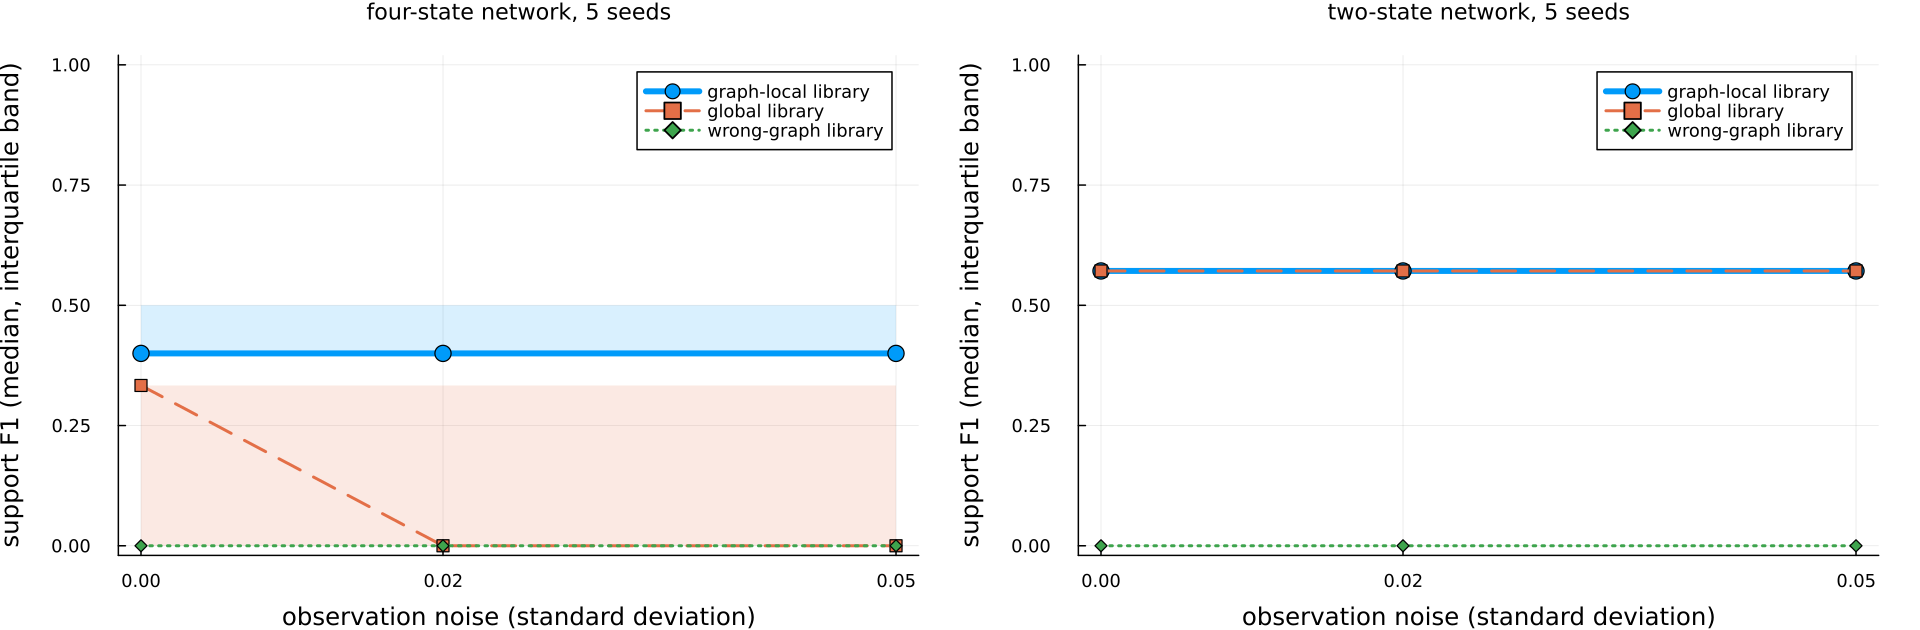
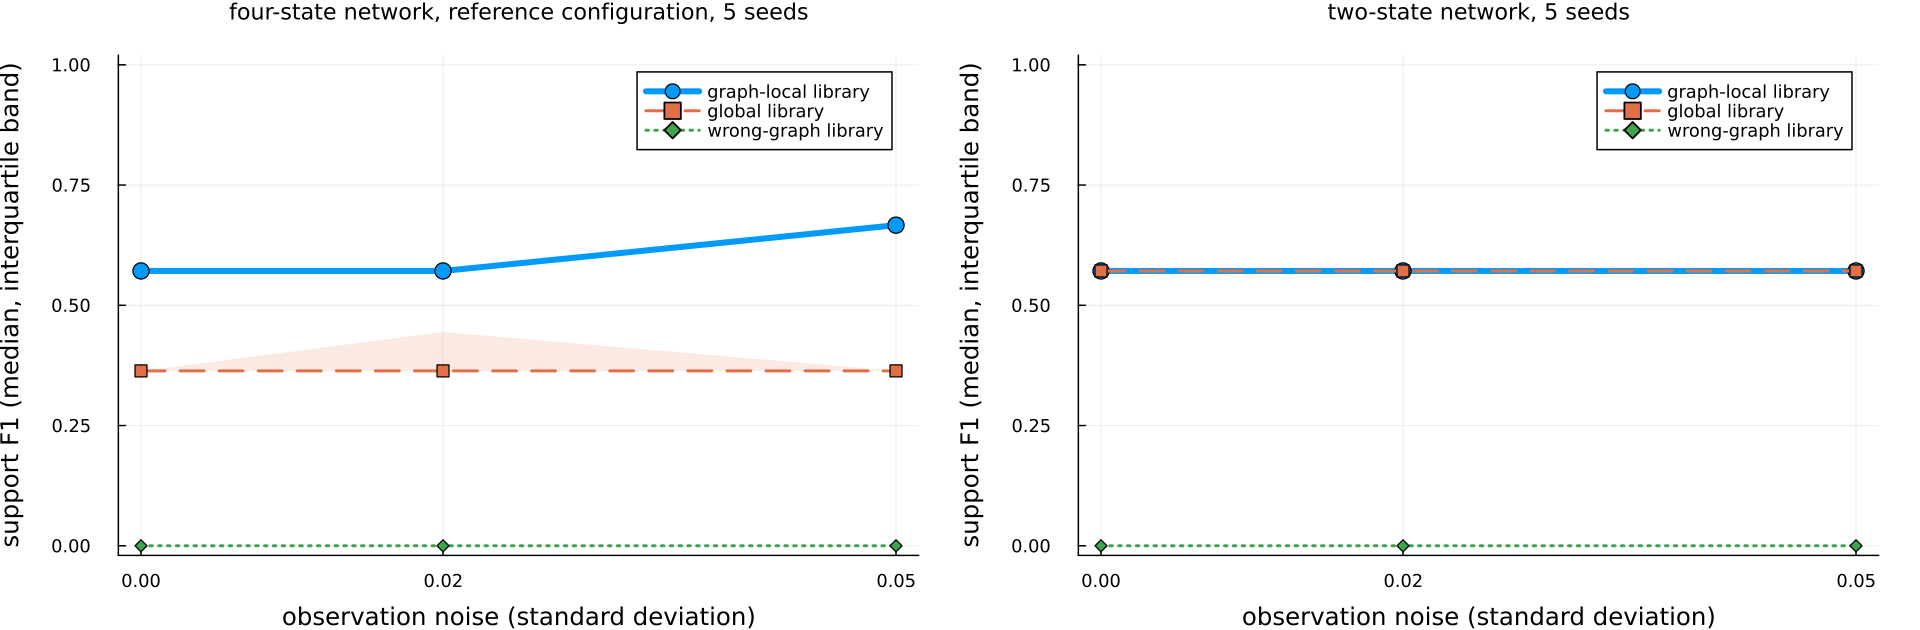
refactor: rename report to report_unknown_term; benchmarks headline is the reference configuration
The exported `report` becomes `report_unknown_term` everywhere (source,
both export locks, tests, docs, README, tutorial, changelog); `show` is
unchanged. No deprecation alias: 0.11.0 is not released yet.

Benchmarks page, presentation only: the reference configuration
(`reference` variant, the reference protocol's discovery settings) is now
the headline four-state table and the four-state panel of the figure,
regenerated from the existing CSVs; the original library-check
configuration (`study` variant) moves into "Why the four-state recall is
0.5" with its table kept; the interpretation paragraph states the claim
the numbers support. No default changed.

Claude-Session: https://claude.ai/code/session_01FzTPQ5c3VVUiqX5fWt3oAg

diff --git a/docs/src/benchmarks.md b/docs/src/benchmarks.md
@@ -152,72 +152,81 @@ distractor Z; the unknown term is the Hill degradation of S with regulator
 R, `D(R) = 1.7 R^2 / (0.36 + R^2)`. For each seed and noise level one model
 is trained on three initial conditions with 40 points each (Adam 100, then
 BFGS 50), its learned rate is sampled once on 80 designed coordinates, and
-discovery runs three times on those samples: with the graph-local library
-(monomials of S and R up to degree 2), with the global library (monomials
-of all four states), and with the library of a deliberately wrong graph (Q
-as the parent of S instead of R). The first candidate of each discovery is
-scored against the true implicit support, `R^2` in the numerator and `R^2`
-in the denominator. Two held-out initial conditions, never used for
+discovery runs three times on those samples with the reference protocol's
+configuration (`discover_unknown_rate` with `rate_discovery_config()`:
+bootstrap 8, consensus refit, samples permuted before the validation
+split): with the graph-local library, monomials up to degree 2 of the
+parent of S in the graph (R); with the global library, monomials of every
+other state (R, Q, Z); and with the library of a deliberately wrong graph
+(Q as the parent of S instead of R). The first candidate of each discovery
+is scored against the true implicit support, `R^2` in the numerator and
+`R^2` in the denominator. Two held-out initial conditions, never used for
 training, give the held-out residual of the hybrid model that uses the
 discovered rate.
 
 The default study is seeds 103, 107, 111, 113, and 127, observation noise
 0, 0.02, and 0.05 (standard deviation of additive Gaussian noise on the
-observations), and the three libraries: 15 trainings and 45 rows.
-`benchmark/library_comparison_study.jl` ran it in 28 minutes on 4 cores
-(median training 107 s) and `benchmark/plot_library_comparison.jl` drew the
-figure.
+observations), and the three libraries: 15 trainings and 45 rows per
+discovery configuration. `benchmark/library_comparison_study.jl --variants
+all` trained the 15 models in 33 minutes on 4 cores (median training 119 s,
+with three other studies running on the same machine) and scored four
+discovery configurations on each; the table below is the reference
+configuration (the `reference` variant), and
+`benchmark/plot_library_comparison.jl` drew the figure from the same rows.
 
 ![Support F1 against observation noise, one line per library, median over five seeds with the interquartile band; left the four-state network, right the two-state network](assets/library_comparison.png)
 
-The left panel is the four-state network of this section; the right panel
-is the two-state reference network described below, where the graph-local
-and global libraries coincide and their lines overlap.
+The left panel is the four-state network of this section with the
+reference configuration; the right panel is the two-state reference network
+described below, where the graph-local and global libraries coincide and
+their lines overlap.
 
-Four-state network, median over the five seeds, with the first and third
-quartile in brackets:
+Four-state network, reference configuration, median over the five seeds,
+with the first and third quartile in brackets:
 
 | library | noise | support F1 | support recall | extra terms | held-out residual | neural-rate error |
 |---|---|---|---|---|---|---|
-| graph-local | 0 | 0.40 [0.40, 0.50] | 0.5 [0.5, 0.5] | 2 [1, 2] | 0.041 [0.024, 0.044] | 0.073 |
-| graph-local | 0.02 | 0.40 [0.40, 0.50] | 0.5 [0.5, 0.5] | 2 [1, 2] | 0.032 [0.030, 0.056] | 0.075 |
-| graph-local | 0.05 | 0.40 [0.40, 0.50] | 0.5 [0.5, 0.5] | 2 [1, 2] | 0.057 [0.054, 0.057] | 0.048 |
-| global | 0 | 0.33 [0.00, 0.33] | 0.5 [0.0, 0.5] | 3 [3, 5] | 0.127 [0.125, 0.127] | 0.073 |
-| global | 0.02 | 0.00 [0.00, 0.33] | 0.0 [0.0, 0.5] | 5 [3, 5] | 0.154 [0.139, 0.154] | 0.075 |
-| global | 0.05 | 0.00 [0.00, 0.33] | 0.0 [0.0, 0.5] | 5 [3, 5] | 0.161 [0.114, 0.208] | 0.048 |
-| wrong graph | 0 | 0.00 [0.00, 0.00] | 0.0 [0.0, 0.0] | 2 [2, 2] | 0.252 [0.251, 0.257] | 0.073 |
-| wrong graph | 0.02 | 0.00 [0.00, 0.00] | 0.0 [0.0, 0.0] | 2 [2, 2] | 0.265 [0.249, 0.335] | 0.075 |
-| wrong graph | 0.05 | 0.00 [0.00, 0.00] | 0.0 [0.0, 0.0] | 2 [2, 2] | 0.266 [0.247, 0.342] | 0.048 |
+| graph-local | 0 | 0.57 [0.57, 0.57] | 1.0 [1.0, 1.0] | 2 [2, 2] | 0.004 [0.003, 0.005] | 0.073 |
+| graph-local | 0.02 | 0.57 [0.57, 0.57] | 1.0 [1.0, 1.0] | 2 [2, 2] | 0.020 [0.020, 0.021] | 0.075 |
+| graph-local | 0.05 | 0.67 [0.67, 0.67] | 1.0 [1.0, 1.0] | 2 [2, 2] | 0.050 [0.048, 0.053] | 0.048 |
+| global | 0 | 0.36 [0.36, 0.36] | 1.0 [1.0, 1.0] | 5 [5, 5] | 0.045 [0.023, 0.129] | 0.073 |
+| global | 0.02 | 0.36 [0.36, 0.44] | 1.0 [1.0, 1.0] | 5 [3, 5] | 0.141 [0.049, 0.185] | 0.075 |
+| global | 0.05 | 0.36 [0.36, 0.36] | 1.0 [1.0, 1.0] | 5 [5, 5] | 0.200 [0.146, 0.259] | 0.048 |
+| wrong graph | 0 | 0.00 [0.00, 0.00] | 0.0 [0.0, 0.0] | 3 [3, 3] | 0.254 [0.254, 0.257] | 0.073 |
+| wrong graph | 0.02 | 0.00 [0.00, 0.00] | 0.0 [0.0, 0.0] | 3 [3, 3] | 0.253 [0.251, 0.258] | 0.075 |
+| wrong graph | 0.05 | 0.00 [0.00, 0.00] | 0.0 [0.0, 0.0] | 3 [2, 3] | 0.259 [0.253, 0.307] | 0.048 |
 
 The neural-rate error is a property of the trained model, so it is the same
-for the three libraries of a run. Three of the 45 rows (graph-local at
-seeds 103 and 111 and global at seed 103, all at noise 0.05) have no finite
-residual because the hybrid model with the discovered rate diverged; the
-residual medians are over the finite values.
+for the three libraries of a run. Two of the 45 discoveries failed (global
+and wrong graph at seed 111, noise 0.05); they count as recall 0 and have
+no residual, and the residual medians are over the finite values. The
+graph-local extra terms are the constant and the linear term in all 15
+runs; the global extra terms are the constant, Q, Q^2, Z, and Z^2.
 
 Environment of the run: Julia 1.10.12, OrdinaryDiffEq 7.8.1,
 SciMLSensitivity 7.119.2, Lux 1.31.4, Optimization 5.9.0, Zygote 0.7.13
 (SciMLBase 3.50.2), 2026-09-05. No Manifest is committed, so a rerun with
 other dependency versions can give other values.
 
-What the numbers show. The graph-local library has the highest support F1
-at every noise level and a held-out residual three to five times smaller
-than the global library's; the wrong-graph library recovers no true term in
-any of its 15 runs and has the largest residual. No library recovers the
-full true support: the graph-local recall is 0.5 in all 15 runs because
-every graph-local candidate is a polynomial in R (`R^2` in the numerator
-with `R` in all 15 runs and `1` in 7 of them, for example
-`2.05 R - 0.62 R^2` at seed 103 without noise) and no denominator term is
-selected, so the rational form of the Hill rate is not recovered.
-The global library recovers `R^2` in 7 of 15 runs and adds `Q^2` and `Z^2`
-in 14 of 15; its median F1 falls from 0.33 without noise to 0 at noise 0.02
-and 0.05. Within this noise range the graph-local scores do not change, and
-the neural-rate error varies more across seeds (0.035 to 0.19) than across
-noise levels. The study therefore supports the ordering graph-local, then
-global, then wrong graph on this network; it does not show recovery of the
-exact mechanism, and it is five seeds on one network. The two subsections
-below run the same study on the two-state reference network and trace the
-recall of 0.5 to the library construction.
+What the numbers show. With the reference configuration all three
+libraries are compared on the same trained models and the same learned-rate
+samples. The graph-local library recovers the true support in all 15 runs
+(recall 1.0) with the fewest extra terms (two, the constant and the linear
+term of the reference protocol) and the lowest held-out residual. The
+global library also recovers the true support (recall 1.0 in 14 of 15
+runs) but with about five extra terms and a held-out residual four to
+eleven times larger at each noise level (seven times pooled over the noise
+levels). The wrong-graph library never recovers the true support and has
+the largest residual. The neural-rate error varies more across seeds
+(0.035 to 0.19) than across noise levels, and the graph-local recall does
+not change within this noise range. The claim the study supports is
+therefore the ordering graph-local, then global, then wrong graph, with
+the graph-local prior removing the extra terms that the global library
+admits; it does not show recovery of the exact Hill form, since two
+nuisance terms remain, and it is five seeds on one network. The next
+subsection runs the same study on the two-state reference network; the
+one after it shows the original library-check configuration, whose
+recall is 0.5, and why.
 
 ### Two-state network
 
@@ -228,11 +237,13 @@ and noise level: nine initial conditions with 50 points each, experiments
 parameters `k_prod = 0.9, vmax = 1.8, K = 0.55, k_rs = 1.0, k_r = 0.6`. The
 learned rate is sampled on the regulator grid of the training experiments
 (80 points, as in the reference protocol) with S spread over its observed
-range in a fixed shuffled order, and discovery runs with the same three
-libraries. On a two-state network the graph-local library (S and its
-parent R) and the global library (S and the only other state, R) are the
-same library, so their rows coincide; the wrong graph makes S its own
-parent and its library is S alone. `benchmark/library_comparison_study.jl
+range in a fixed shuffled order, and discovery runs with the libraries of
+the original library-check configuration (the `study` variant of the next
+subsection: libraries built by `local_basis`, which include the target
+state, no bootstrap). On a two-state network the graph-local library (S
+and its parent R) and the global library (S and the only other state, R)
+are the same library, so their rows coincide; the wrong graph makes S its
+own parent and its library is S alone. `benchmark/library_comparison_study.jl
 --fixture two_state --variants all` ran the 15 trainings in 39 minutes
 (median training 128 s, four studies sharing 4 cores). Median over the
 five seeds:
@@ -258,23 +269,47 @@ more than a hundred times larger; one of its 15 discoveries failed
 
 ### Why the four-state recall is 0.5
 
-The four-state study and the reference protocol use the same discovery
-thresholds and degrees but differ in the library (the study's library is
-built by `local_basis`, which always includes the target state S, and on the
-designed sample coordinates S is fixed at 0.4, so its column is a multiple
-of the constant term), in the bootstrap (the study uses none; the reference
-protocol uses a block bootstrap of 8 with a consensus refit and nested
-pruning), and in the sample order (the reference protocol permutes the
-samples before the validation split). The denominator candidates are the
+The trained-model library check (`evaluate_trained_graph_local`, the
+`study` variant) uses its own discovery configuration: libraries built by
+`local_basis` (graph-local: S and R; global: all four states; wrong graph:
+S and Q), no bootstrap, and the samples in their generated order. On the
+same 15 trained models it gives, median over the five seeds:
+
+| library | noise | support F1 | support recall | extra terms | held-out residual |
+|---|---|---|---|---|---|
+| graph-local | 0 | 0.40 [0.40, 0.50] | 0.5 [0.5, 0.5] | 2 [1, 2] | 0.041 [0.024, 0.044] |
+| graph-local | 0.02 | 0.40 [0.40, 0.50] | 0.5 [0.5, 0.5] | 2 [1, 2] | 0.032 [0.030, 0.056] |
+| graph-local | 0.05 | 0.40 [0.40, 0.50] | 0.5 [0.5, 0.5] | 2 [1, 2] | 0.057 [0.054, 0.057] |
+| global | 0 | 0.33 [0.00, 0.33] | 0.5 [0.0, 0.5] | 3 [3, 5] | 0.127 [0.125, 0.127] |
+| global | 0.02 | 0.00 [0.00, 0.33] | 0.0 [0.0, 0.5] | 5 [3, 5] | 0.154 [0.139, 0.154] |
+| global | 0.05 | 0.00 [0.00, 0.33] | 0.0 [0.0, 0.5] | 5 [3, 5] | 0.161 [0.114, 0.208] |
+| wrong graph | 0 | 0.00 [0.00, 0.00] | 0.0 [0.0, 0.0] | 2 [2, 2] | 0.252 [0.251, 0.257] |
+| wrong graph | 0.02 | 0.00 [0.00, 0.00] | 0.0 [0.0, 0.0] | 2 [2, 2] | 0.265 [0.249, 0.335] |
+| wrong graph | 0.05 | 0.00 [0.00, 0.00] | 0.0 [0.0, 0.0] | 2 [2, 2] | 0.266 [0.247, 0.342] |
+
+Three of these 45 rows (graph-local at seeds 103 and 111 and global at
+seed 103, all at noise 0.05) have no finite residual because the hybrid
+model with the discovered rate diverged. No library recovers the full
+true support here: every graph-local candidate is a polynomial in R (`R^2`
+in the numerator with `R` in all 15 runs and `1` in 7 of them, for example
+`2.05 R - 0.62 R^2` at seed 103 without noise) and no denominator term is
+selected. This configuration and the reference protocol use the same
+discovery thresholds and degrees but differ in the library (`local_basis`
+always includes the target state S, and on the designed sample
+coordinates S is fixed at 0.4, so its column is a multiple of the constant
+term), in the bootstrap (none here; the reference protocol uses a block
+bootstrap of 8 with a consensus refit and nested pruning), and in the
+sample order (the reference protocol permutes the samples before the
+validation split). The denominator candidates are the
 same in both: every non-constant monomial, including `R^2`. To find which
-difference matters, the study reran discovery on the same learned-rate
-samples of the same 15 trained models in four variants: `study` (as
-above), `bootstrap` (the study's libraries with the reference bootstrap),
-`parents` (libraries over the parent states only, no bootstrap), and
-`reference` (parent-only libraries with the reference bootstrap, seed, and
-permutation; for the graph-local library this is exactly
-`discover_unknown_rate` with `rate_discovery_config()`). Pooled over the 15
-runs of each library:
+difference matters, the study ran discovery on the same learned-rate
+samples of the same 15 trained models in four variants: `study` (the
+table above), `bootstrap` (the study's libraries with the reference
+bootstrap), `parents` (libraries over the parent states only, no
+bootstrap), and `reference` (parent-only libraries with the reference
+bootstrap, seed, and permutation; for the graph-local library this is
+exactly `discover_unknown_rate` with `rate_discovery_config()`; this is the
+headline table of this section). Pooled over the 15 runs of each library:
 
 | variant | library | runs with recall 1.0 | support F1 | extra terms | held-out residual | extra-term labels (runs) |
 |---|---|---|---|---|---|---|
@@ -292,10 +327,11 @@ runs of each library:
 | reference | wrong graph | 0 of 15 | 0.00 | 3 [3, 3] | 0.255 [0.252, 0.258] | 1 14, Q^2 14, Q 13 |
 
 Two discoveries failed (reference variant, global and wrong-graph
-libraries, seed 111, noise 0.05); they count as recall 0. The runs took
-33 minutes (`benchmark/library_comparison_study.jl --variants all`, median
-training 119 s, four studies sharing 4 cores) and their `study` rows are
-identical to the table above, row for row.
+libraries, seed 111, noise 0.05); they count as recall 0. The `study` rows
+of this run are identical, row for row, to an earlier run of
+`benchmark/library_comparison_study.jl` with the `study` variant alone
+(28 minutes on 4 cores, median training 107 s), so retraining is
+reproducible on this machine.
 
 What the numbers show. The bootstrap removes the extra constant term but
 leaves recall at 0.5 in every run. Leaving the target state S out of the
@@ -312,10 +348,10 @@ four-state run with S varying on the designed coordinates was not part of
 this study. The ordering graph-local, then global, then wrong graph holds
 in all four variants: with parent-only libraries the global library also
 recovers the true support but keeps five extra terms and has a residual
-five to eight times larger than the graph-local library's. The `study`
-variant remains the default of the study and of
-`evaluate_trained_graph_local`; the other variants are available through
-the `variants` keyword.
+five to eight times larger than the graph-local library's (pooled over
+the noise levels). The `study` variant remains the default of the study
+and of `evaluate_trained_graph_local`; the other variants are available
+through the `variants` keyword.
 
 ### Stability selection on the library comparison study
 

diff --git a/CHANGELOG.md b/CHANGELOG.md
@@ -19,7 +19,7 @@ Nothing yet.
   regulator grid of the training experiments, discovers a rational rate,
   computes the identifiability diagnostic and the residuals on the first,
   the training, and the held-out experiments (`holdout = 2` by default), and
-  returns an `UnknownTermResult`; `report(result)` gives the four-section
+  returns an `UnknownTermResult`; `report_unknown_term(result)` gives the four-section
   report and `show` prints it. It calls the same functions as the reference
   example, in the same order, with the same defaults, and a test checks
   that its result matches the chained calls field by field.

diff --git a/docs/src/tutorial.md b/docs/src/tutorial.md
@@ -79,7 +79,7 @@ REPRODUCTION
 `result` is an `UnknownTermResult`: `result.params` are the trained
 parameters, `result.discovery` the `DiscoveryResult`, `result.identifiability`
 the trade-off report, `result.residuals` the three residuals above, and
-`report(result)` the text. The held-out residual (experiments 8 and 9, never
+`report_unknown_term(result)` the text. The held-out residual (experiments 8 and 9, never
 used for training) is about twice the training residual; both are far below
 the acceptance threshold of 0.3. The rest of this page is what the one call
 does, step by step, with the reference example

diff --git a/README.md b/README.md
@@ -88,7 +88,7 @@ result = discover_unknown_term(network(known = false), data; rng = rng, holdout 
 `discover_unknown_term` prints a four-section report (identifiability, fit,
 discovery, reproduction) and returns an `UnknownTermResult` that holds the
 trained model, the identifiability diagnostic, the discovery, and the
-residuals; `report(result)` returns the report as a string. The lines that
+residuals; `report_unknown_term(result)` returns the report as a string. The lines that
 matter most, from a run in September 2026:
 
 ```text

diff --git a/docs/src/howto.md b/docs/src/howto.md
@@ -18,7 +18,7 @@ result = discover_unknown_term(ude_net, set; rng = MersenneTwister(0), holdout =
 result.params            # trained parameters
 result.discovery         # DiscoveryResult
 result.residuals         # (data_residual, data_residual_train, data_residual_holdout)
-report(result)           # the report as a string
+report_unknown_term(result)   # the report as a string
 ```
 
 `training = TrainingConfig(...)`, `discovery = DiscoveryConfig(...)`,

diff --git a/docs/src/api.md b/docs/src/api.md
@@ -106,7 +106,7 @@ AugmentedLagrangianConfig
 ```@docs
 discover_unknown_term
 UnknownTermResult
-report
+report_unknown_term
 ```
 
 ## Symbolic discovery
